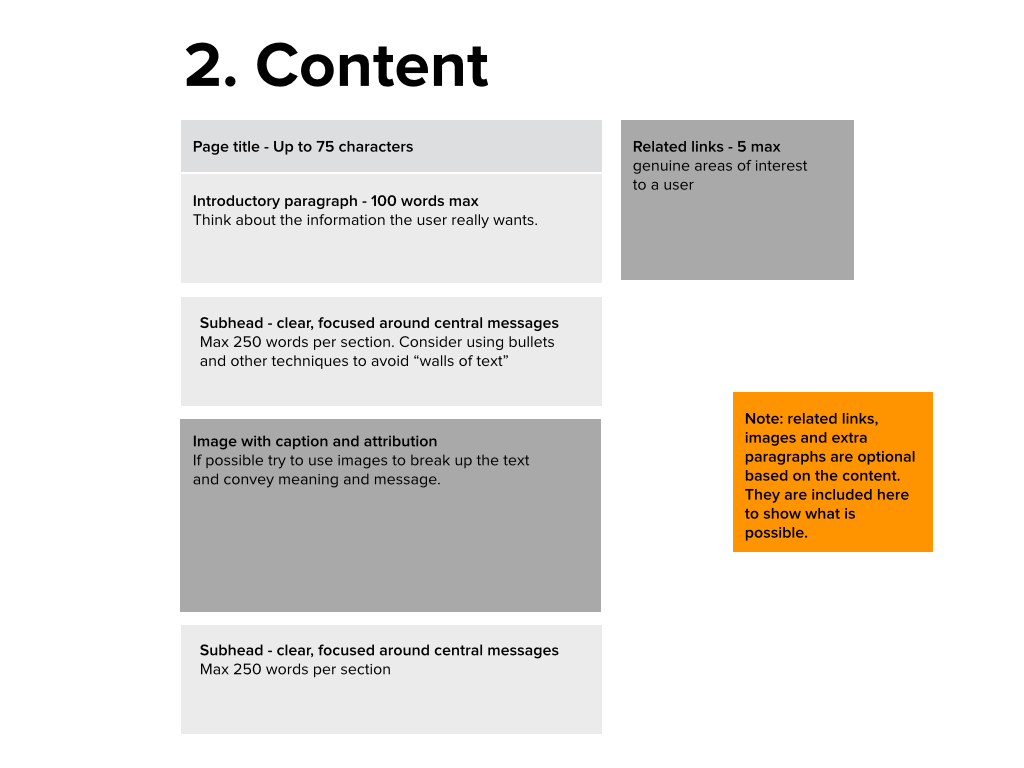
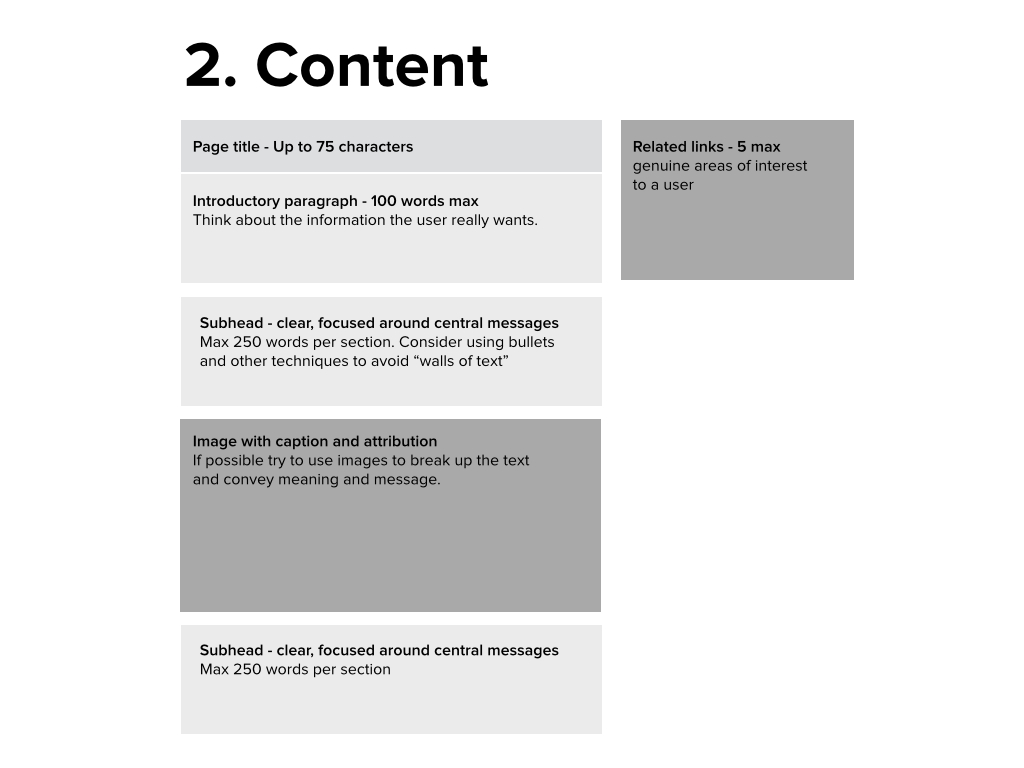
Updates to content templates

Changed region(s): [[0.7188, 0.5, 0.9375, 0.7188]]

diff --git a/who-who/biography-template.html b/who-who/biography-template.html
@@ -3,7 +3,7 @@
 <head>
 <meta charset="utf-8">
 
-<title>ICC Beta - Who's who</title>
+<title>Biography template</title>
 
 <meta name="description" content="155 characters of message matching text with a call to action goes here">
 
@@ -43,39 +43,49 @@
   <script>window.jQuery || document.write('<script src="assets/build/jquery-1.10.2.min.js"><\/script>')</script>	
 
 <body>
+
+
 <article role="main" class="col wide content-main">
+								
+	<div class="page-content">
 
-		<h2 class="grey">Content checklist</h2>					
-			<p>Print <a href="https://www.dropbox.com/s/znm5c0l4256lrg8/ICC-content-checklist-D1-R1.pdf?dl=0">a content checklist</a> for each piece of content and work through the points.</p>
+	<div class="row">
 
-	<h2 class="grey">1. Landing template</h2>	
+		<div class="col two-thirds padded-right">	    
+
+			<img class="case-image" src="../assets/images/03-Biography-content-templates.jpg" alt="Sample image">
+
+		</div>
+
+		<div class="col one-third padded-left">
+				<p>Print <a href="https://www.dropbox.com/s/znm5c0l4256lrg8/ICC-content-checklist-D1-R1.pdf?dl=0">this content checklist</a> and work through the points.</p>
+
+				<ul>
+					<li>Keep it short.</li>
+					<li><strong>Overview</strong> covers the person's current title at the ICC as well as the history of their involvement at the ICC.</li>
+					<li><strong>Biography</strong> is a few sentences of highlights in chronological order.</li>
+					<li>Include a high-resolution portrait image.</li>
+					<li>Include quote - from the person or a person they admire (optional).</li>
+					<li>Don't use any other headings or subheadings.</li>
+			</ul>	
+
+				<p>See <a href="biography.html">biography</a> for an example</p>
+
+		</div>	
+
+	</div>		
+
+		<hr>
+
 		
-	<p><a href="landing-content-template.html">Landing content template</a> is for sections with lots of content and many possible journeys.</p>
-	<p>The following sections will use the landing template (customised to suit the needs of your organ or department).</p>
 
-			<ul>
-				<li ><a href="presidency.html">Presidency</a></li>
-				<li ><a href="chambers.html">Judges and Chambers</a></li>
-				<li ><a href="otp.html">Office of the Prosecutor</a></li>
-				<li ><a href="registry.html">Registry</a></li>
-				<li ><a href="defence.html">Defence</a></li>
-				<li ><a href="victims.html">Victims</a></li>
-				<li ><a href="outreach.html">Outreach</a></li>
-															
-			</ul>
 
-			<h2 class="grey">2. Article template</h2>	
-			<p><a href="standard-content-template.html">Standard content template</a> (will work for most things)</p>
-			<p>Many sections will use the article template including all "How we work" sections and these ones:</p>				
-			<ul>
-					<li ><a href="detention.html">Detention Centre</a></li>
-					<li ><a href="witnesses.html">Witnesses</a></li>
-					<li ><a href="#">Our Building</a></li>
-			</ul>						
 
-			<h2 class="grey">3. Biography template</h2>	
-			<p><a href="biography-template.html">Biography content template</a> is used for biographies. <a href="biography.html">Here's an example of a biography.</a></p>	
-
+		
+	</div><!-- page-content -->
+								
 </article>
+
+
 </body>
 </html>

diff --git a/who-who/standard-content-template.html b/who-who/standard-content-template.html
@@ -3,7 +3,7 @@
 <head>
 <meta charset="utf-8">
 
-<title>ICC Beta - Who's who</title>
+<title>Standard content template</title>
 
 <meta name="description" content="155 characters of message matching text with a call to action goes here">
 
@@ -43,39 +43,44 @@
   <script>window.jQuery || document.write('<script src="assets/build/jquery-1.10.2.min.js"><\/script>')</script>	
 
 <body>
+
+
 <article role="main" class="col wide content-main">
+								
+	<div class="page-content">
 
-		<h2 class="grey">Content checklist</h2>					
-			<p>Print <a href="https://www.dropbox.com/s/znm5c0l4256lrg8/ICC-content-checklist-D1-R1.pdf?dl=0">a content checklist</a> for each piece of content and work through the points.</p>
+	<div class="row">
 
-	<h2 class="grey">1. Landing template</h2>	
+		<div class="col two-thirds padded-right">	    
+
+			<img class="case-image" src="../assets/images/02-Standard-content-template.jpg" alt="Sample image">
+
+		</div>
+
+		<div class="col one-third padded-left">
+				<p>Related links, images and extra paragraphs are optional based on the content. They are included here to show what is possible.</p>
+
+				<p>Print <a href="https://www.dropbox.com/s/znm5c0l4256lrg8/ICC-content-checklist-D1-R1.pdf?dl=0">this content checklist</a> and work through the points.</p>
+
+				<p>The </p>
+
+
+
+		</div>	
+
+	</div>		
+
+		<hr>
+
 		
-	<p><a href="landing-content-template.html">Landing content template</a> is for sections with lots of content and many possible journeys.</p>
-	<p>The following sections will use the landing template (customised to suit the needs of your organ or department).</p>
 
-			<ul>
-				<li ><a href="presidency.html">Presidency</a></li>
-				<li ><a href="chambers.html">Judges and Chambers</a></li>
-				<li ><a href="otp.html">Office of the Prosecutor</a></li>
-				<li ><a href="registry.html">Registry</a></li>
-				<li ><a href="defence.html">Defence</a></li>
-				<li ><a href="victims.html">Victims</a></li>
-				<li ><a href="outreach.html">Outreach</a></li>
-															
-			</ul>
 
-			<h2 class="grey">2. Article template</h2>	
-			<p><a href="standard-content-template.html">Standard content template</a> (will work for most things)</p>
-			<p>Many sections will use the article template including all "How we work" sections and these ones:</p>				
-			<ul>
-					<li ><a href="detention.html">Detention Centre</a></li>
-					<li ><a href="witnesses.html">Witnesses</a></li>
-					<li ><a href="#">Our Building</a></li>
-			</ul>						
 
-			<h2 class="grey">3. Biography template</h2>	
-			<p><a href="biography-template.html">Biography content template</a> is used for biographies. <a href="biography.html">Here's an example of a biography.</a></p>	
-
+		
+	</div><!-- page-content -->
+								
 </article>
+
+
 </body>
 </html>

diff --git a/who-who/landing-template.html b/who-who/landing-template.html
@@ -3,7 +3,7 @@
 <head>
 <meta charset="utf-8">
 
-<title>ICC Beta - Who's who</title>
+<title>Landing template</title>
 
 <meta name="description" content="155 characters of message matching text with a call to action goes here">
 
@@ -43,39 +43,40 @@
   <script>window.jQuery || document.write('<script src="assets/build/jquery-1.10.2.min.js"><\/script>')</script>	
 
 <body>
+
+
 <article role="main" class="col wide content-main">
+								
+	<div class="page-content">
 
-		<h2 class="grey">Content checklist</h2>					
-			<p>Print <a href="https://www.dropbox.com/s/znm5c0l4256lrg8/ICC-content-checklist-D1-R1.pdf?dl=0">a content checklist</a> for each piece of content and work through the points.</p>
+	<div class="row">
 
-	<h2 class="grey">1. Landing template</h2>	
+		<div class="col two-thirds padded-right">	    
+
+			<img class="case-image" src="../assets/images/03-Biography-content-templates.jpg" alt="Sample image">
+
+		</div>
+
+		<div class="col one-third padded-left">
+				<p>Print <a href="https://www.dropbox.com/s/znm5c0l4256lrg8/ICC-content-checklist-D1-R1.pdf?dl=0">this content checklist</a> and work through the points.</p>
+
+				<p>See <a href="biography.html">biography</a> for an example</p>
+
+		</div>	
+
+	</div>		
+
+		<hr>
+
 		
-	<p><a href="landing-content-template.html">Landing content template</a> is for sections with lots of content and many possible journeys.</p>
-	<p>The following sections will use the landing template (customised to suit the needs of your organ or department).</p>
 
-			<ul>
-				<li ><a href="presidency.html">Presidency</a></li>
-				<li ><a href="chambers.html">Judges and Chambers</a></li>
-				<li ><a href="otp.html">Office of the Prosecutor</a></li>
-				<li ><a href="registry.html">Registry</a></li>
-				<li ><a href="defence.html">Defence</a></li>
-				<li ><a href="victims.html">Victims</a></li>
-				<li ><a href="outreach.html">Outreach</a></li>
-															
-			</ul>
 
-			<h2 class="grey">2. Article template</h2>	
-			<p><a href="standard-content-template.html">Standard content template</a> (will work for most things)</p>
-			<p>Many sections will use the article template including all "How we work" sections and these ones:</p>				
-			<ul>
-					<li ><a href="detention.html">Detention Centre</a></li>
-					<li ><a href="witnesses.html">Witnesses</a></li>
-					<li ><a href="#">Our Building</a></li>
-			</ul>						
 
-			<h2 class="grey">3. Biography template</h2>	
-			<p><a href="biography-template.html">Biography content template</a> is used for biographies. <a href="biography.html">Here's an example of a biography.</a></p>	
-
+		
+	</div><!-- page-content -->
+								
 </article>
+
+
 </body>
 </html>
